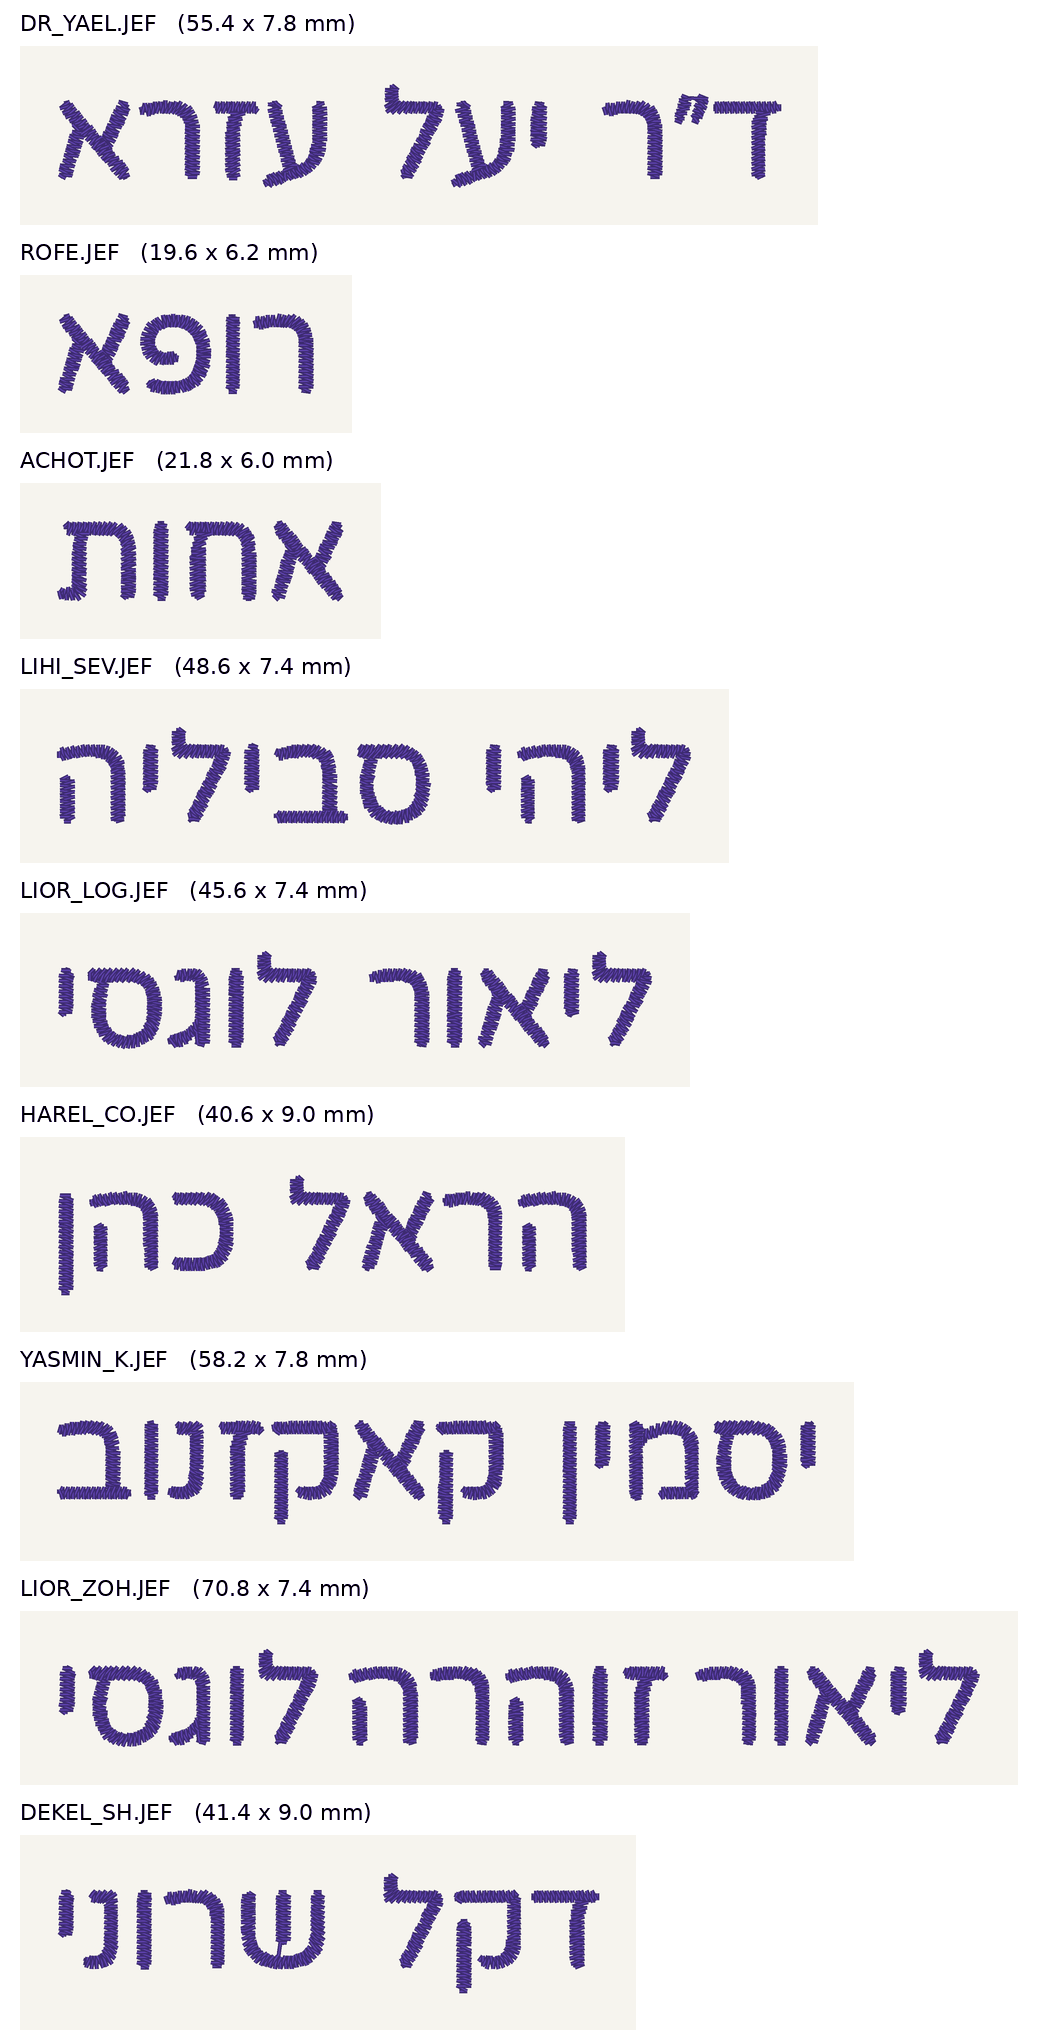
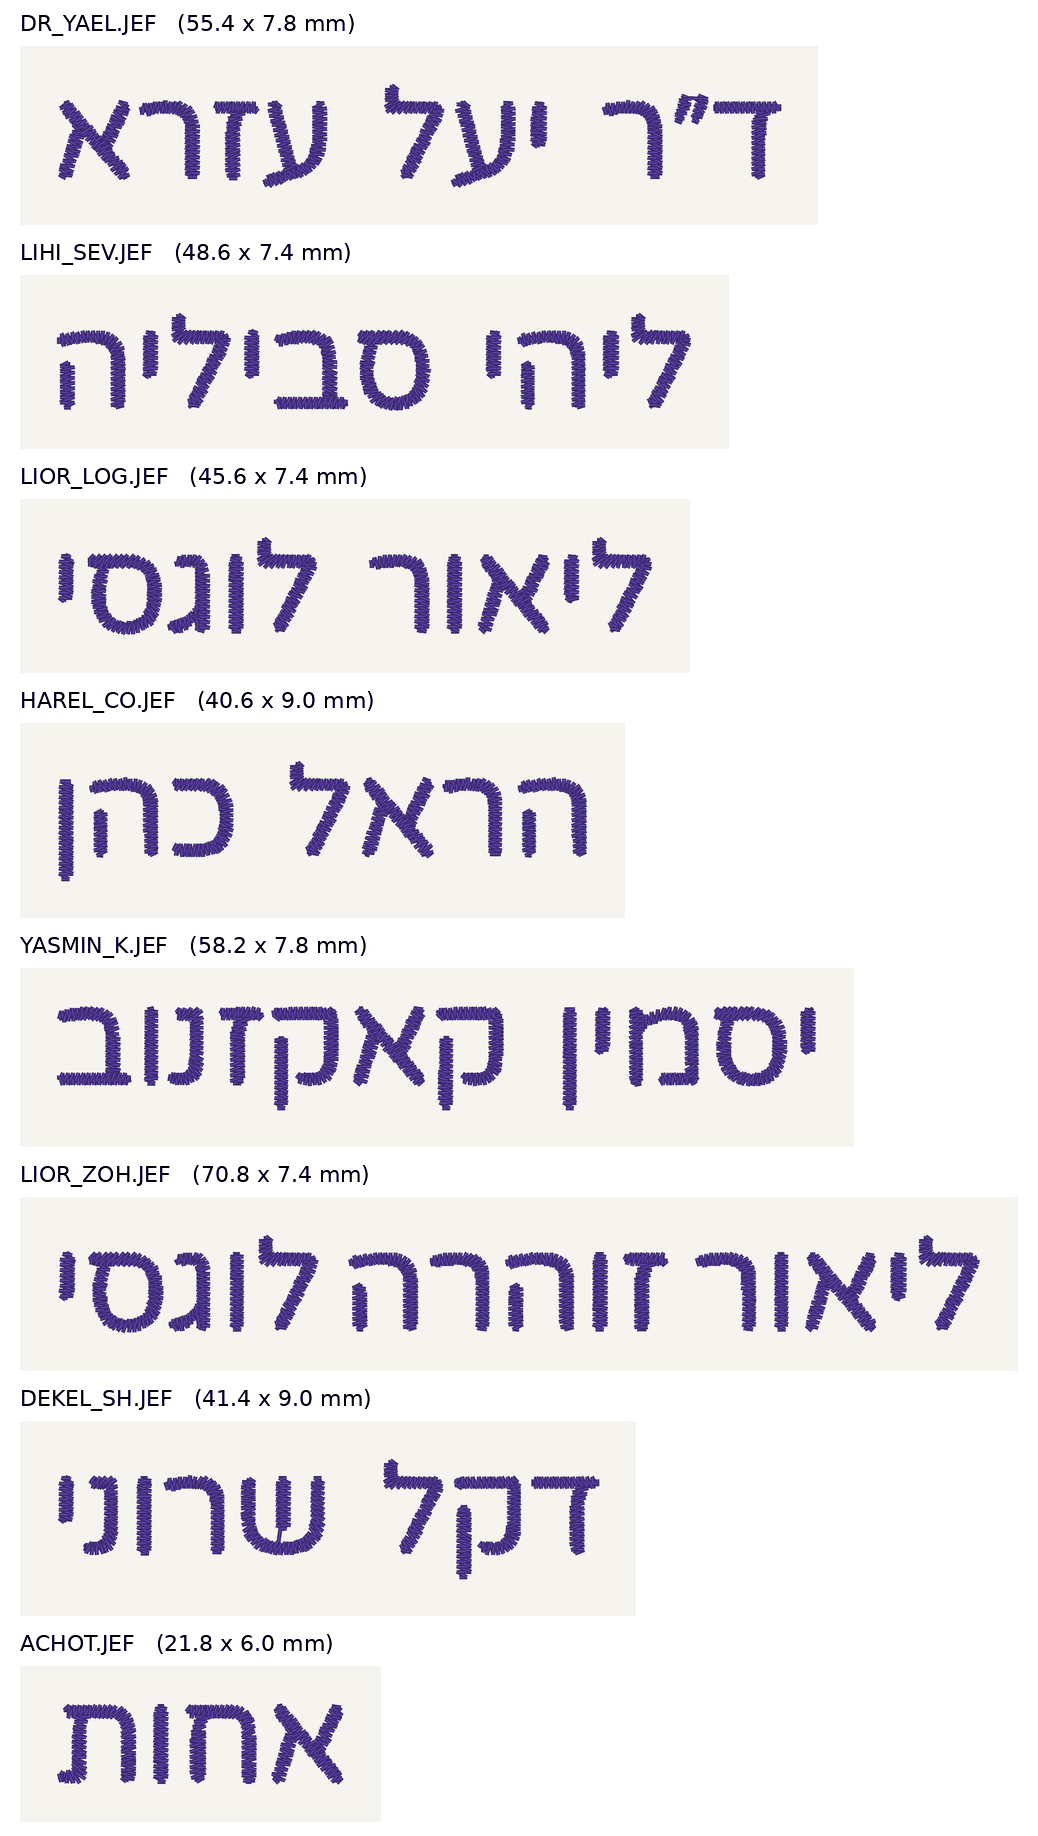
Remove רופא (ROFE.JEF): already sewn
Drops embroidery/usb/ROFE.JEF and its line in names.txt and the README, and
refreshes all_names_preview.png. The remaining 8 files still pass
validate_jef.py.

Claude-Session: https://claude.ai/code/session_01FCv1YmdJwXtYKwDfC7h85V

diff --git a/embroidery/README.md b/embroidery/README.md
@@ -7,7 +7,6 @@ Copy the `.JEF` files to the USB stick (nothing else is needed).
 | File | Stitches | Size (mm) |
 |---|---|---|
 | `DR_YAEL.JEF` | ד״ר יעל עזרא | 55.4 × 7.8 |
-| `ROFE.JEF` | רופא | 19.6 × 6.2 |
 | `ACHOT.JEF` | אחות | 21.8 × 6.0 |
 | `LIHI_SEV.JEF` | ליהי סביליה | 48.6 × 7.4 |
 | `LIOR_LOG.JEF` | ליאור לוגסי | 45.6 × 7.4 |
